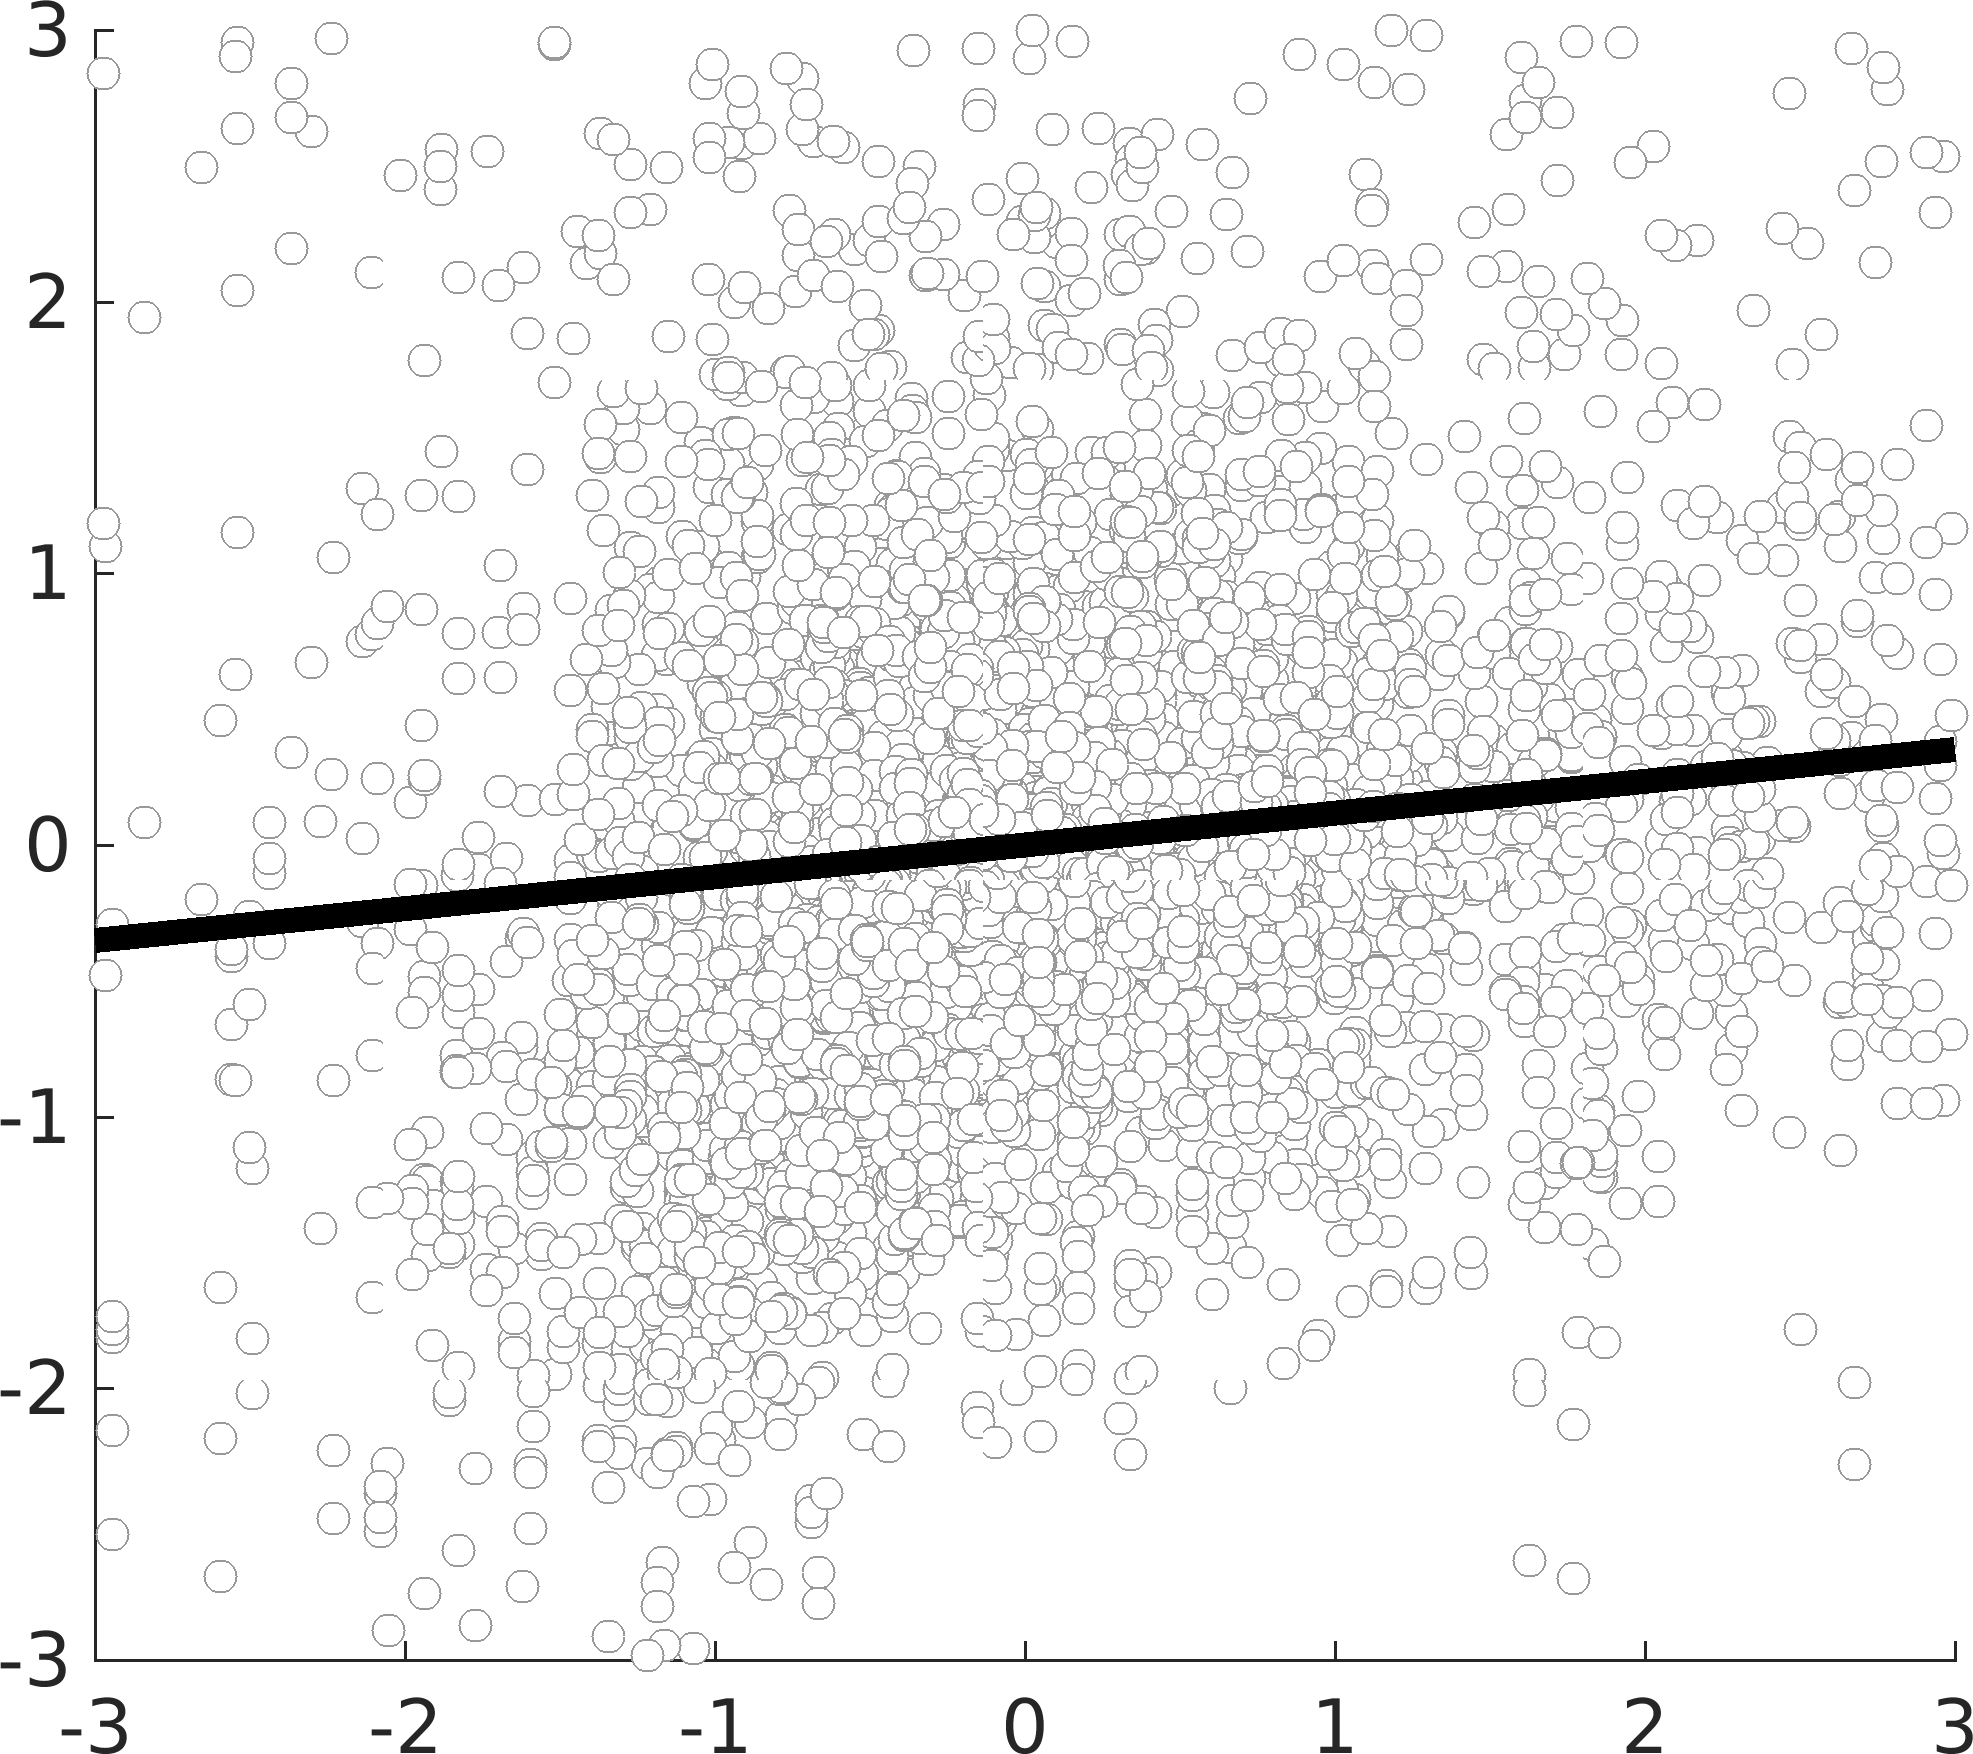
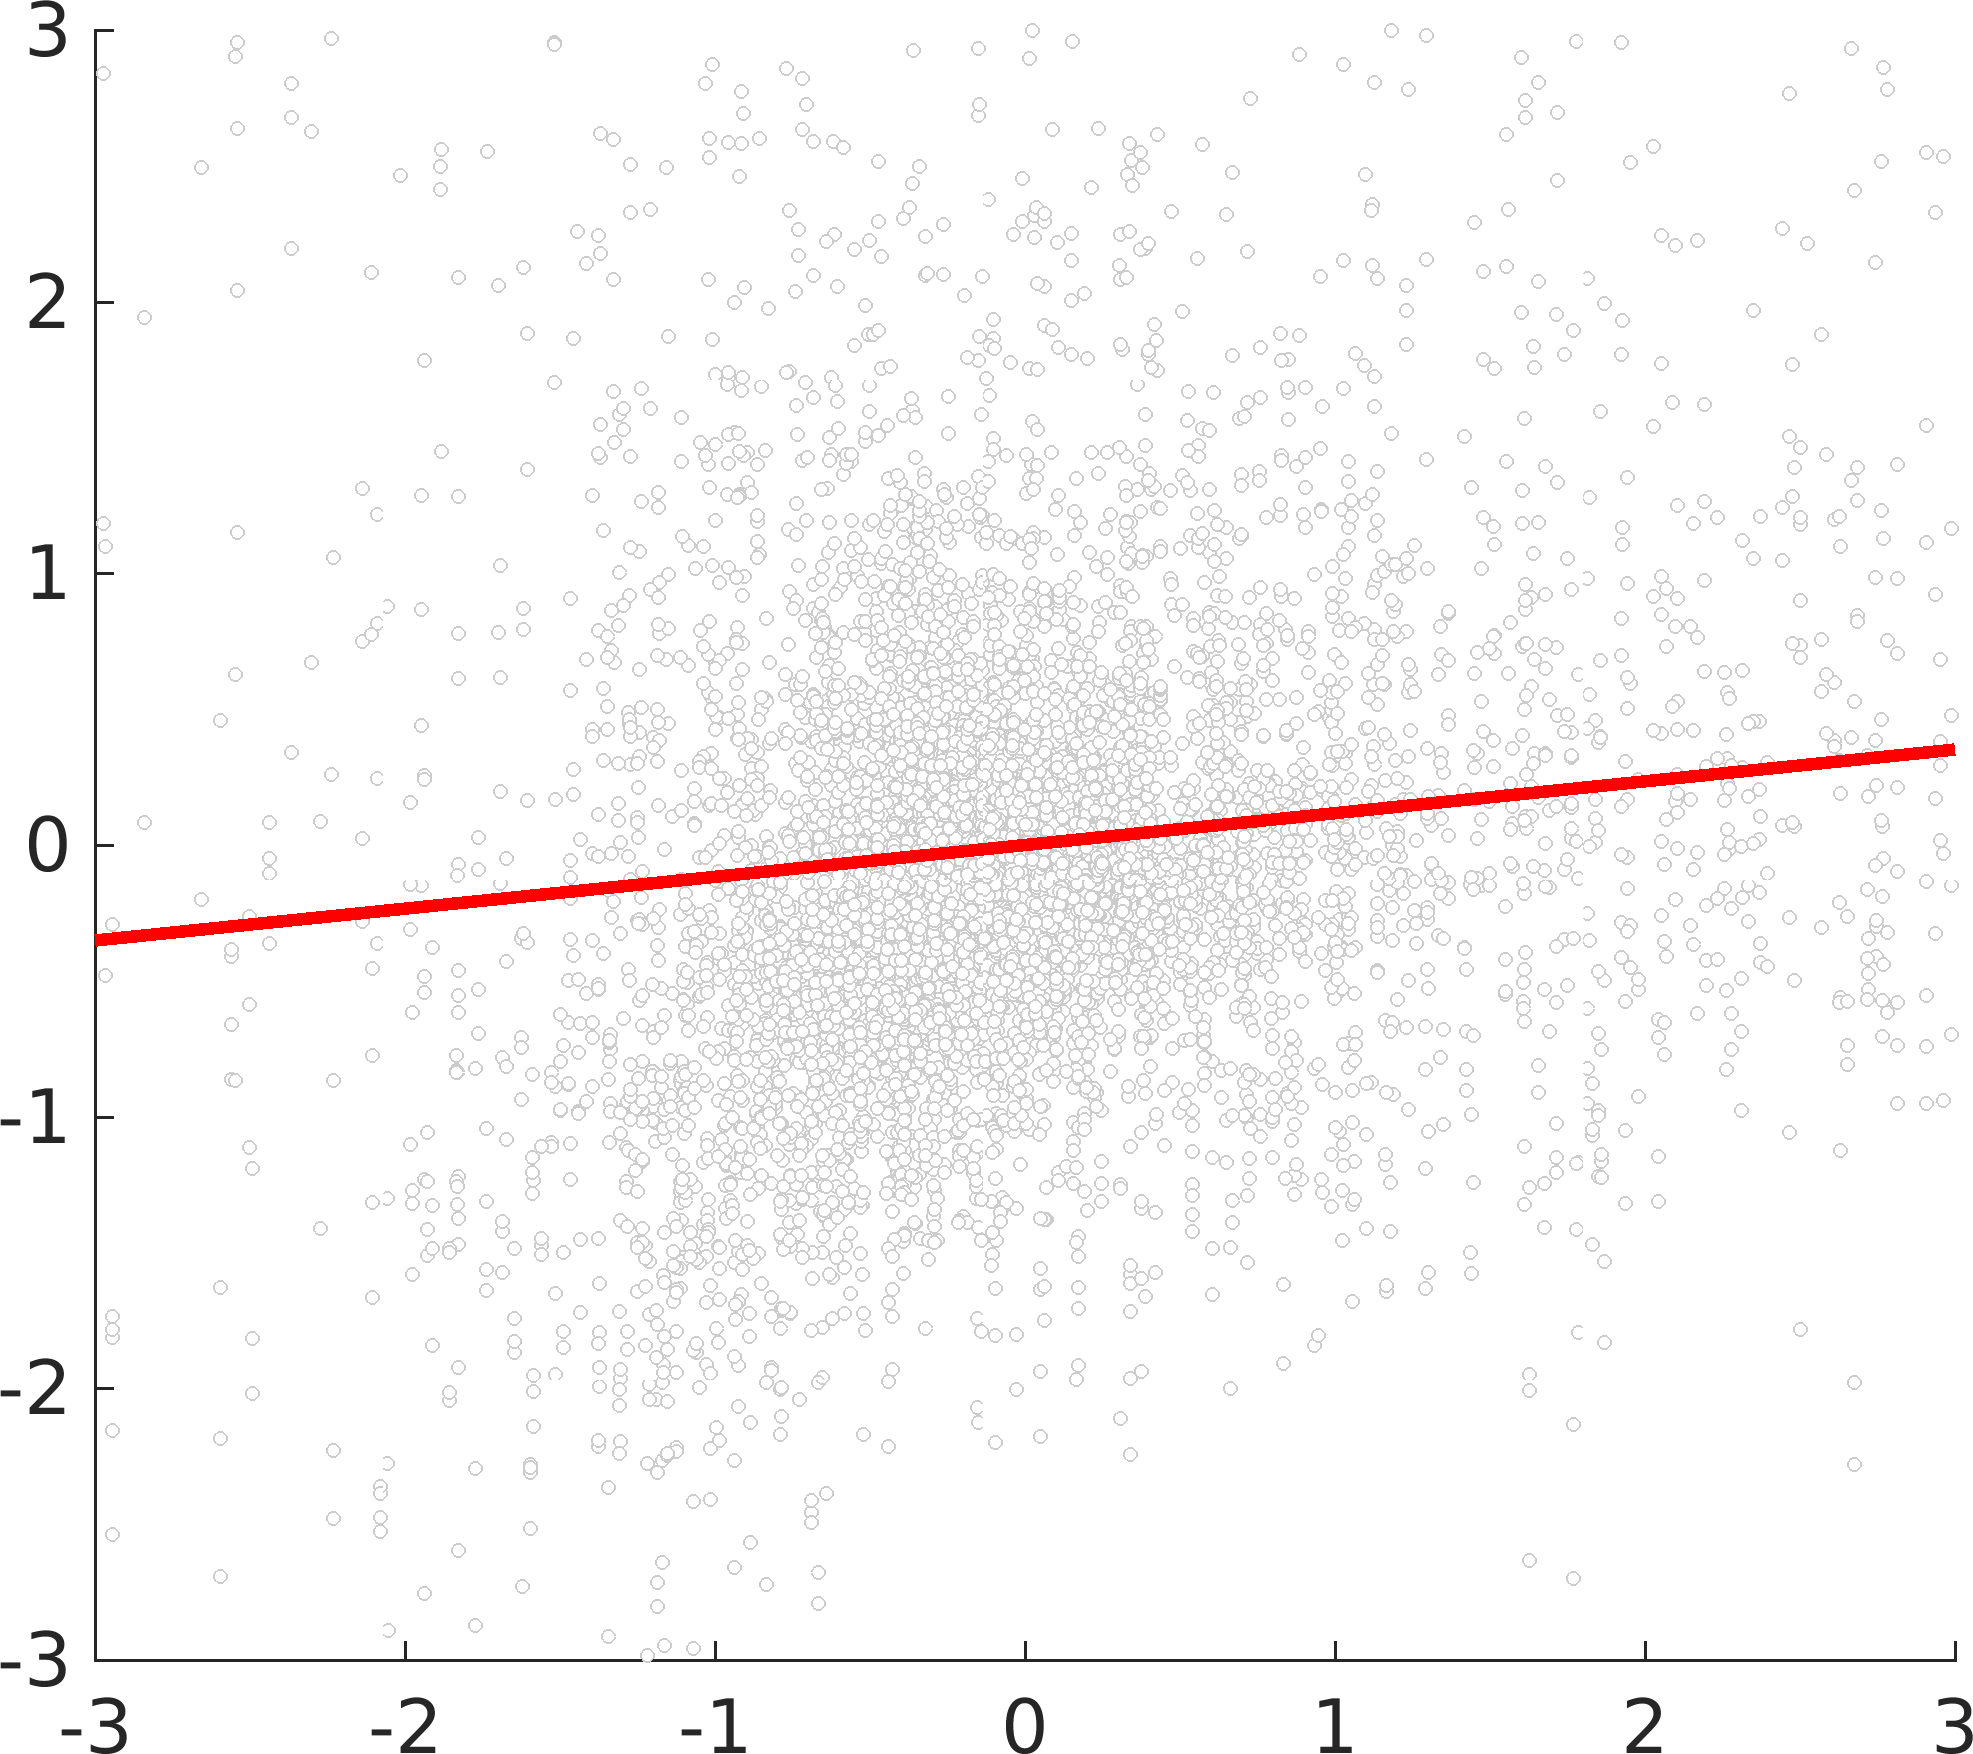
tweaked figure generation to be consistent across project

diff --git a/source/analysis/analyze_in_emg.m b/source/analysis/analyze_in_emg.m
@@ -141,9 +141,9 @@ set(gcf,'color','w');
 
 %% ----------------------------------------
 %% plot all the datapoints
-scatter(predictors,measures,60,'MarkerFaceColor', ...
+scatter(predictors,measures,10,'MarkerFaceColor', ...
         proj.param.plot.white,'MarkerEdgeColor', ...
-        proj.param.plot.dark_grey);
+        proj.param.plot.light_grey);
 hold on;
 
 %% ----------------------------------------
@@ -157,7 +157,7 @@ xmax = 2;
 %% overlay the group VR skill plot
 vseq = linspace(xmin,xmax);
 y_hat = FE.Estimate(1) + FE.Estimate(2)*vseq;
-plot(vseq,y_hat,'k-','LineWidth',6);
+plot(vseq,y_hat,'r-','LineWidth',3);
 
 xlim([xmin,xmax]);
 ylim([ymin,ymax]);
@@ -171,6 +171,9 @@ ax.FontSize = proj.param.plot.axisLabelFontSize;
 %% explot hi-resolution figure
 export_fig 'IN_emg_zygo_summary.png' -r300  
 eval(['! mv ',proj.path.code,'IN_emg_zygo_summary.png ',proj.path.fig]);
+
+%% clean up
+close all;
 
 logger('----------------------------------------',proj.path.logfile);
 logger(' CORRUGATOR ANALYSIS                    ',proj.path.logfile);
@@ -228,9 +231,9 @@ set(gcf,'color','w');
 
 %% ----------------------------------------
 %% plot all the datapoints
-scatter(predictors,measures,60,'MarkerFaceColor', ...
+scatter(predictors,measures,10,'MarkerFaceColor', ...
         proj.param.plot.white,'MarkerEdgeColor', ...
-        proj.param.plot.dark_grey);
+        proj.param.plot.light_grey);
 hold on;
 
 %% ----------------------------------------
@@ -244,7 +247,7 @@ xmax = 2;
 %% overlay the group VR skill plot
 vseq = linspace(xmin,xmax);
 y_hat = FE.Estimate(1) + FE.Estimate(2)*vseq;
-plot(vseq,y_hat,'k-','LineWidth',6);
+plot(vseq,y_hat,'r-','LineWidth',3);
 
 xlim([xmin,xmax]);
 ylim([ymin,ymax]);
@@ -257,4 +260,8 @@ ax.FontSize = proj.param.plot.axisLabelFontSize;
 %% ----------------------------------------
 %% explot hi-resolution figure
 export_fig 'IN_emg_corr_summary.png' -r300  
-eval(['! mv ',proj.path.code,'IN_emg_corr_summary.png ',proj.path.fig]);
+eval(['! mv ',proj.path.code,'IN_emg_corr_summary.png ', ...
+      proj.path.fig]);
+
+%% clean up
+close all;

diff --git a/source/analysis/analyze_in_scr.m b/source/analysis/analyze_in_scr.m
@@ -127,9 +127,9 @@ set(gcf,'color','w');
 
 %% ----------------------------------------
 %% plot all the datapoints
-scatter(predictors,measures,60,'MarkerFaceColor', ...
+scatter(predictors,measures,10,'MarkerFaceColor', ...
         proj.param.plot.white,'MarkerEdgeColor', ...
-        proj.param.plot.dark_grey);
+        proj.param.plot.light_grey);
 hold on;
 
 %% ----------------------------------------
@@ -143,7 +143,7 @@ xmax = 3; %3.61;
 %% overlay the group VR skill plot
 vseq = linspace(xmin,xmax);
 y_hat = FE.Estimate(1) + FE.Estimate(2)*vseq;
-plot(vseq,y_hat,'k-','LineWidth',6);
+plot(vseq,y_hat,'r-','LineWidth',3);
 
 xlim([xmin,xmax]);
 ylim([ymin,ymax]);
@@ -160,3 +160,6 @@ ax.FontSize = proj.param.plot.axisLabelFontSize;
 %% explot hi-resolution figure
 export_fig 'IN_scr_summary.png' -r300  
 eval(['! mv ',proj.path.code,'IN_scr_summary.png ',proj.path.fig]);
+
+%% clean up
+close all;

diff --git a/source/analysis/analyze_mvpa_fmri_ex_gs_vs_gm.m b/source/analysis/analyze_mvpa_fmri_ex_gs_vs_gm.m
@@ -137,7 +137,7 @@ figure(1)
 set(gcf,'color','w');
 scatter(v_predictors,v_measures,10,'MarkerFaceColor', ...
         proj.param.plot.white,'MarkerEdgeColor', ...
-        proj.param.plot.very_light_grey);
+        proj.param.plot.light_grey);
 hold on;
 
 
@@ -216,7 +216,7 @@ figure(2)
 set(gcf,'color','w');
 scatter(a_predictors,a_measures,10,'MarkerFaceColor', ...
         proj.param.plot.white,'MarkerEdgeColor', ...
-        proj.param.plot.very_light_grey);
+        proj.param.plot.light_grey);
 hold on;
 
 
@@ -242,7 +242,8 @@ ylabel('GM-based MVPA Predictions');
 export_fig 'EX_mvpa_gs_vs_gm_aro_summary.png' -r300  
 eval(['! mv ',proj.path.code,'EX_mvpa_gs_vs_gm_aro_summary.png ',proj.path.fig]);
 
-
+%% clean up
+close all;
 
 
 

diff --git a/source/mvpa/mvpa_fmri_ex_gm_rgr_scr.m b/source/mvpa/mvpa_fmri_ex_gm_rgr_scr.m
@@ -170,7 +170,7 @@ set(gcf,'color','w');
 %% plot all the datapoints
 scatter(predictors,measures,10,'MarkerFaceColor', ...
         proj.param.plot.white,'MarkerEdgeColor', ...
-        proj.param.plot.very_light_grey);
+        proj.param.plot.light_grey);
 hold on;
 
 %% ----------------------------------------
@@ -201,3 +201,6 @@ ylabel('SCR Beta Coefficients');
 %% explot hi-resolution figure
 export_fig 'EX_mvpa_predicted_scr_summary.png' -r300  
 eval(['! mv ',proj.path.code,'EX_mvpa_predicted_scr_summary.png ',proj.path.fig]);
+
+%% clean-up
+close all;

diff --git a/source/mvpa/mvpa_fmri_ex_gm_rgr_a.m b/source/mvpa/mvpa_fmri_ex_gm_rgr_a.m
@@ -152,7 +152,7 @@ set(gcf,'color','w');
 %% plot all the datapoints
 scatter(predictors,measures,10,'MarkerFaceColor', ...
         proj.param.plot.white,'MarkerEdgeColor', ...
-        proj.param.plot.very_light_grey);
+        proj.param.plot.light_grey);
 hold on;
 
 %% ----------------------------------------
@@ -183,3 +183,6 @@ ylabel('Arousal Scores');
 %% explot hi-resolution figure
 export_fig 'EX_mvpa_predicted_a_summary.png' -r300  
 eval(['! mv ',proj.path.code,'EX_mvpa_predicted_a_summary.png ',proj.path.fig]);
+
+%% clean up
+close all;

diff --git a/source/analysis/analyze_ex_gm_scr_a.m b/source/analysis/analyze_ex_gm_scr_a.m
@@ -140,7 +140,7 @@ set(gcf,'color','w');
 %% plot all the datapoints
 scatter(predictors,measures,10,'MarkerFaceColor', ...
         proj.param.plot.white,'MarkerEdgeColor', ...
-        proj.param.plot.very_light_grey);
+        proj.param.plot.light_grey);
 hold on;
 
 %% ----------------------------------------
@@ -171,3 +171,6 @@ ylabel('Normative Arousal Scores');
 %% explot hi-resolution figure
 export_fig 'EX_scr_summary.png' -r300  
 eval(['! mv ',proj.path.code,'EX_scr_summary.png ',proj.path.fig]);
+
+% clean up
+close all;
